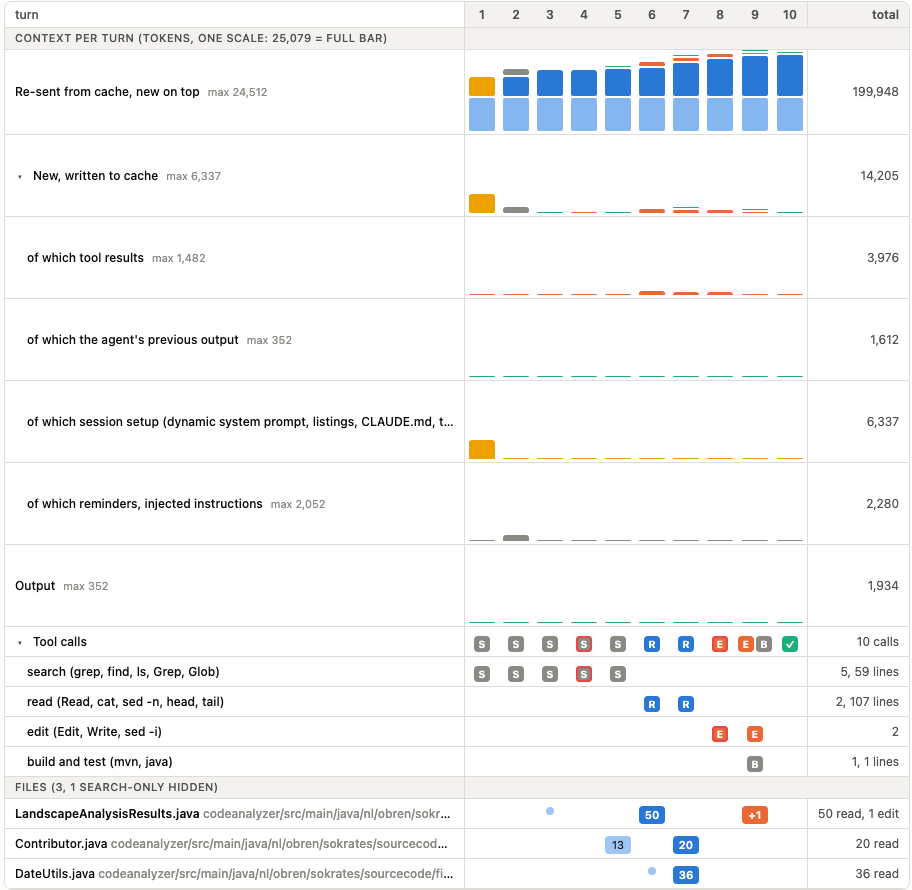
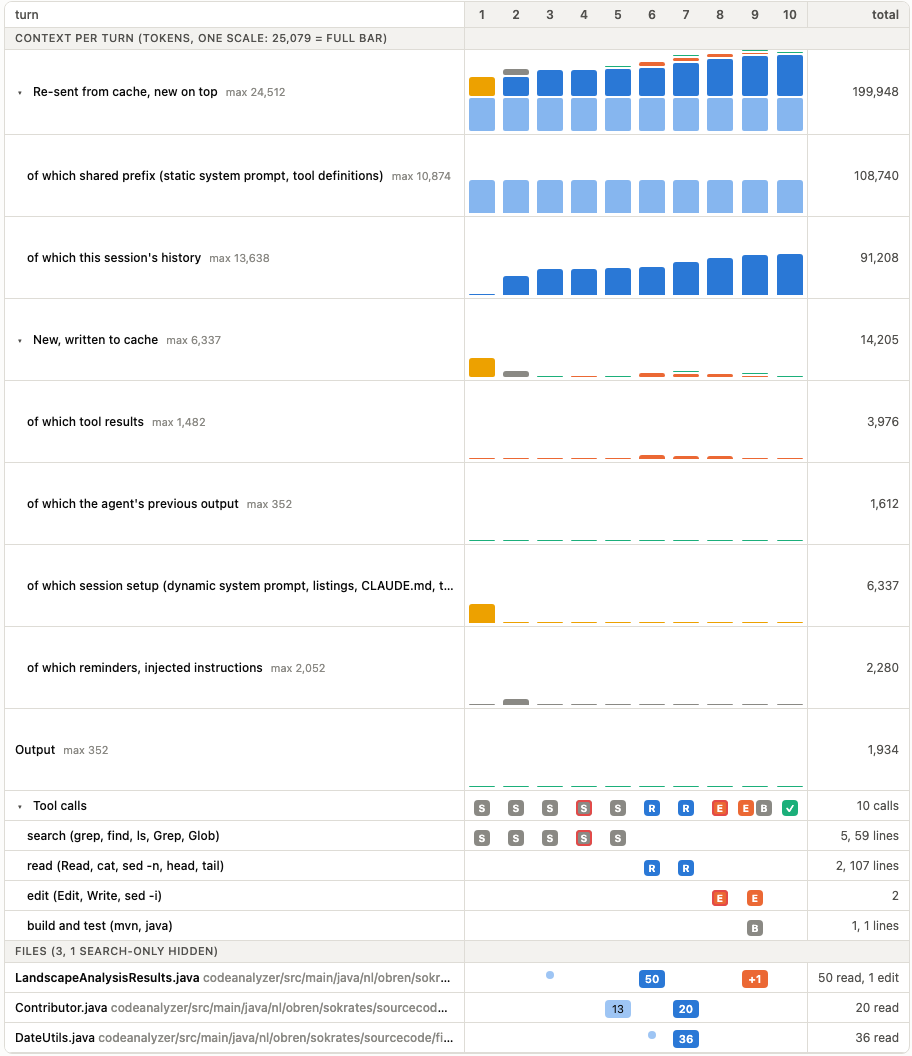
Trace page: the re-sent row splits into the shared prefix and this session's history

diff --git a/docs/trace.html b/docs/trace.html
@@ -88,7 +88,7 @@ a { color: var(--read); }
 <body>
 <main>
 <h1>Agent turn traces</h1>
-<p class="lead">One column per API call (a turn); the agent's tools in that turn below the token bars. The top rows show what each turn costs: the context re-sent from the prompt cache, the new context written to it (tool results, the agent's own words) and the output. The file rows show where the agent read, searched and edited. Hover a cell for details, click a turn to list its commands; the ▸ next to "New, written to cache" and "Tool calls" opens their breakdown.</p>
+<p class="lead">One column per API call (a turn); the agent's tools in that turn below the token bars. The top rows show what each turn costs: the context re-sent from the prompt cache, the new context written to it (tool results, the agent's own words) and the output. The file rows show where the agent read, searched and edited. Hover a cell for details, click a turn to list its commands; the ▸ next to "Re-sent from cache", "New, written to cache" and "Tool calls" opens their breakdown.</p>
 
 <div class="controls">
   <label>Example <select id="pick"></select></label>
@@ -123,8 +123,8 @@ a { color: var(--read); }
   var detail = document.getElementById('detail'), summary = document.getElementById('summary');
   var hideHits = document.getElementById('hideHits'), cumulative = document.getElementById('cumulative');
   var current = null, selected = null;
-  var open = {new: false, tools: false};
-  try { var stored = JSON.parse(localStorage.getItem('trace-open') || '{}'); open.new = !!stored.new; open.tools = !!stored.tools; } catch (e) {}
+  var open = {resent: false, new: false, tools: false};
+  try { var stored = JSON.parse(localStorage.getItem('trace-open') || '{}'); open.resent = !!stored.resent; open.new = !!stored.new; open.tools = !!stored.tools; } catch (e) {}
   function toggle(which) { return '<button class="tg" data-toggle="' + which + '" aria-expanded="' + open[which] + '" title="show or hide the breakdown">' + (open[which] ? '\u25BE' : '\u25B8') + '</button>'; }
 
   function esc(s) { return String(s == null ? '' : s).replace(/[&<>"']/g, function (c) { return {'&': '&amp;', '<': '&lt;', '>': '&gt;', '"': '&quot;', "'": '&#39;'}[c]; }); }
@@ -197,7 +197,10 @@ a { color: var(--read); }
     var max = Math.max.apply(null, ['cache_write', 'input', 'output'].reduce(function (a, k) { return a.concat(tokenValues(turns, k)); }, [1])
       .concat(turns.map(function (t) { return (t.cache_read || 0) + (t.cache_write || 0); })));
     h += '<tr class="group"><th class="head">Context per turn (tokens, one scale: ' + fmt(max) + ' = full bar)</th><td colspan="' + (n + 1) + '"></td></tr>';
-    h += tokenRow('Re-sent from cache, new on top', 'cache_read', 'var(--read)', turns, sum('cache_read'), max);
+    turns.forEach(function (t) { t._prefix = Math.min(trace.shared_prefix || 0, t.cache_read || 0); t._history = (t.cache_read || 0) - t._prefix; });
+    h += tokenRow('Re-sent from cache, new on top', 'cache_read', 'var(--read)', turns, sum('cache_read'), max, 'parent' + (open.resent ? ' open' : ''), toggle('resent'));
+    h += tokenRow('\u2003of which shared prefix (static system prompt, tool definitions)', '_prefix', 'var(--prefix)', turns, sum('_prefix'), max, 'sub sub-resent');
+    h += tokenRow("\u2003of which this session's history", '_history', 'var(--read)', turns, sum('_history'), max, 'sub sub-resent');
     var hasNew = turns.some(function (t) { return t.new; });
     h += tokenRow('New, written to cache', 'cache_write', 'var(--write)', turns, sum('cache_write'), max, hasNew ? 'parent' + (open.new ? ' open' : '') : '', hasNew ? toggle('new') : '');
     if (hasNew) {
@@ -263,7 +266,7 @@ a { color: var(--read); }
     });
     h += '</tbody>';
     grid.innerHTML = h;
-    ['new', 'tools'].forEach(function (w) { if (open[w]) Array.prototype.forEach.call(grid.querySelectorAll('tr.sub-' + w), function (r) { r.classList.add('shown'); }); });
+    ['resent', 'new', 'tools'].forEach(function (w) { if (open[w]) Array.prototype.forEach.call(grid.querySelectorAll('tr.sub-' + w), function (r) { r.classList.add('shown'); }); });
     showTurn(selected);
   }
 

diff --git a/scripts/trace_template.html b/scripts/trace_template.html
@@ -88,7 +88,7 @@ a { color: var(--read); }
 <body>
 <main>
 <h1>Agent turn traces</h1>
-<p class="lead">One column per API call (a turn); the agent's tools in that turn below the token bars. The top rows show what each turn costs: the context re-sent from the prompt cache, the new context written to it (tool results, the agent's own words) and the output. The file rows show where the agent read, searched and edited. Hover a cell for details, click a turn to list its commands; the ▸ next to "New, written to cache" and "Tool calls" opens their breakdown.</p>
+<p class="lead">One column per API call (a turn); the agent's tools in that turn below the token bars. The top rows show what each turn costs: the context re-sent from the prompt cache, the new context written to it (tool results, the agent's own words) and the output. The file rows show where the agent read, searched and edited. Hover a cell for details, click a turn to list its commands; the ▸ next to "Re-sent from cache", "New, written to cache" and "Tool calls" opens their breakdown.</p>
 
 <div class="controls">
   <label>Example <select id="pick"></select></label>
@@ -123,8 +123,8 @@ a { color: var(--read); }
   var detail = document.getElementById('detail'), summary = document.getElementById('summary');
   var hideHits = document.getElementById('hideHits'), cumulative = document.getElementById('cumulative');
   var current = null, selected = null;
-  var open = {new: false, tools: false};
-  try { var stored = JSON.parse(localStorage.getItem('trace-open') || '{}'); open.new = !!stored.new; open.tools = !!stored.tools; } catch (e) {}
+  var open = {resent: false, new: false, tools: false};
+  try { var stored = JSON.parse(localStorage.getItem('trace-open') || '{}'); open.resent = !!stored.resent; open.new = !!stored.new; open.tools = !!stored.tools; } catch (e) {}
   function toggle(which) { return '<button class="tg" data-toggle="' + which + '" aria-expanded="' + open[which] + '" title="show or hide the breakdown">' + (open[which] ? '\u25BE' : '\u25B8') + '</button>'; }
 
   function esc(s) { return String(s == null ? '' : s).replace(/[&<>"']/g, function (c) { return {'&': '&amp;', '<': '&lt;', '>': '&gt;', '"': '&quot;', "'": '&#39;'}[c]; }); }
@@ -197,7 +197,10 @@ a { color: var(--read); }
     var max = Math.max.apply(null, ['cache_write', 'input', 'output'].reduce(function (a, k) { return a.concat(tokenValues(turns, k)); }, [1])
       .concat(turns.map(function (t) { return (t.cache_read || 0) + (t.cache_write || 0); })));
     h += '<tr class="group"><th class="head">Context per turn (tokens, one scale: ' + fmt(max) + ' = full bar)</th><td colspan="' + (n + 1) + '"></td></tr>';
-    h += tokenRow('Re-sent from cache, new on top', 'cache_read', 'var(--read)', turns, sum('cache_read'), max);
+    turns.forEach(function (t) { t._prefix = Math.min(trace.shared_prefix || 0, t.cache_read || 0); t._history = (t.cache_read || 0) - t._prefix; });
+    h += tokenRow('Re-sent from cache, new on top', 'cache_read', 'var(--read)', turns, sum('cache_read'), max, 'parent' + (open.resent ? ' open' : ''), toggle('resent'));
+    h += tokenRow('\u2003of which shared prefix (static system prompt, tool definitions)', '_prefix', 'var(--prefix)', turns, sum('_prefix'), max, 'sub sub-resent');
+    h += tokenRow("\u2003of which this session's history", '_history', 'var(--read)', turns, sum('_history'), max, 'sub sub-resent');
     var hasNew = turns.some(function (t) { return t.new; });
     h += tokenRow('New, written to cache', 'cache_write', 'var(--write)', turns, sum('cache_write'), max, hasNew ? 'parent' + (open.new ? ' open' : '') : '', hasNew ? toggle('new') : '');
     if (hasNew) {
@@ -263,7 +266,7 @@ a { color: var(--read); }
     });
     h += '</tbody>';
     grid.innerHTML = h;
-    ['new', 'tools'].forEach(function (w) { if (open[w]) Array.prototype.forEach.call(grid.querySelectorAll('tr.sub-' + w), function (r) { r.classList.add('shown'); }); });
+    ['resent', 'new', 'tools'].forEach(function (w) { if (open[w]) Array.prototype.forEach.call(grid.querySelectorAll('tr.sub-' + w), function (r) { r.classList.add('shown'); }); });
     showTurn(selected);
   }
 
